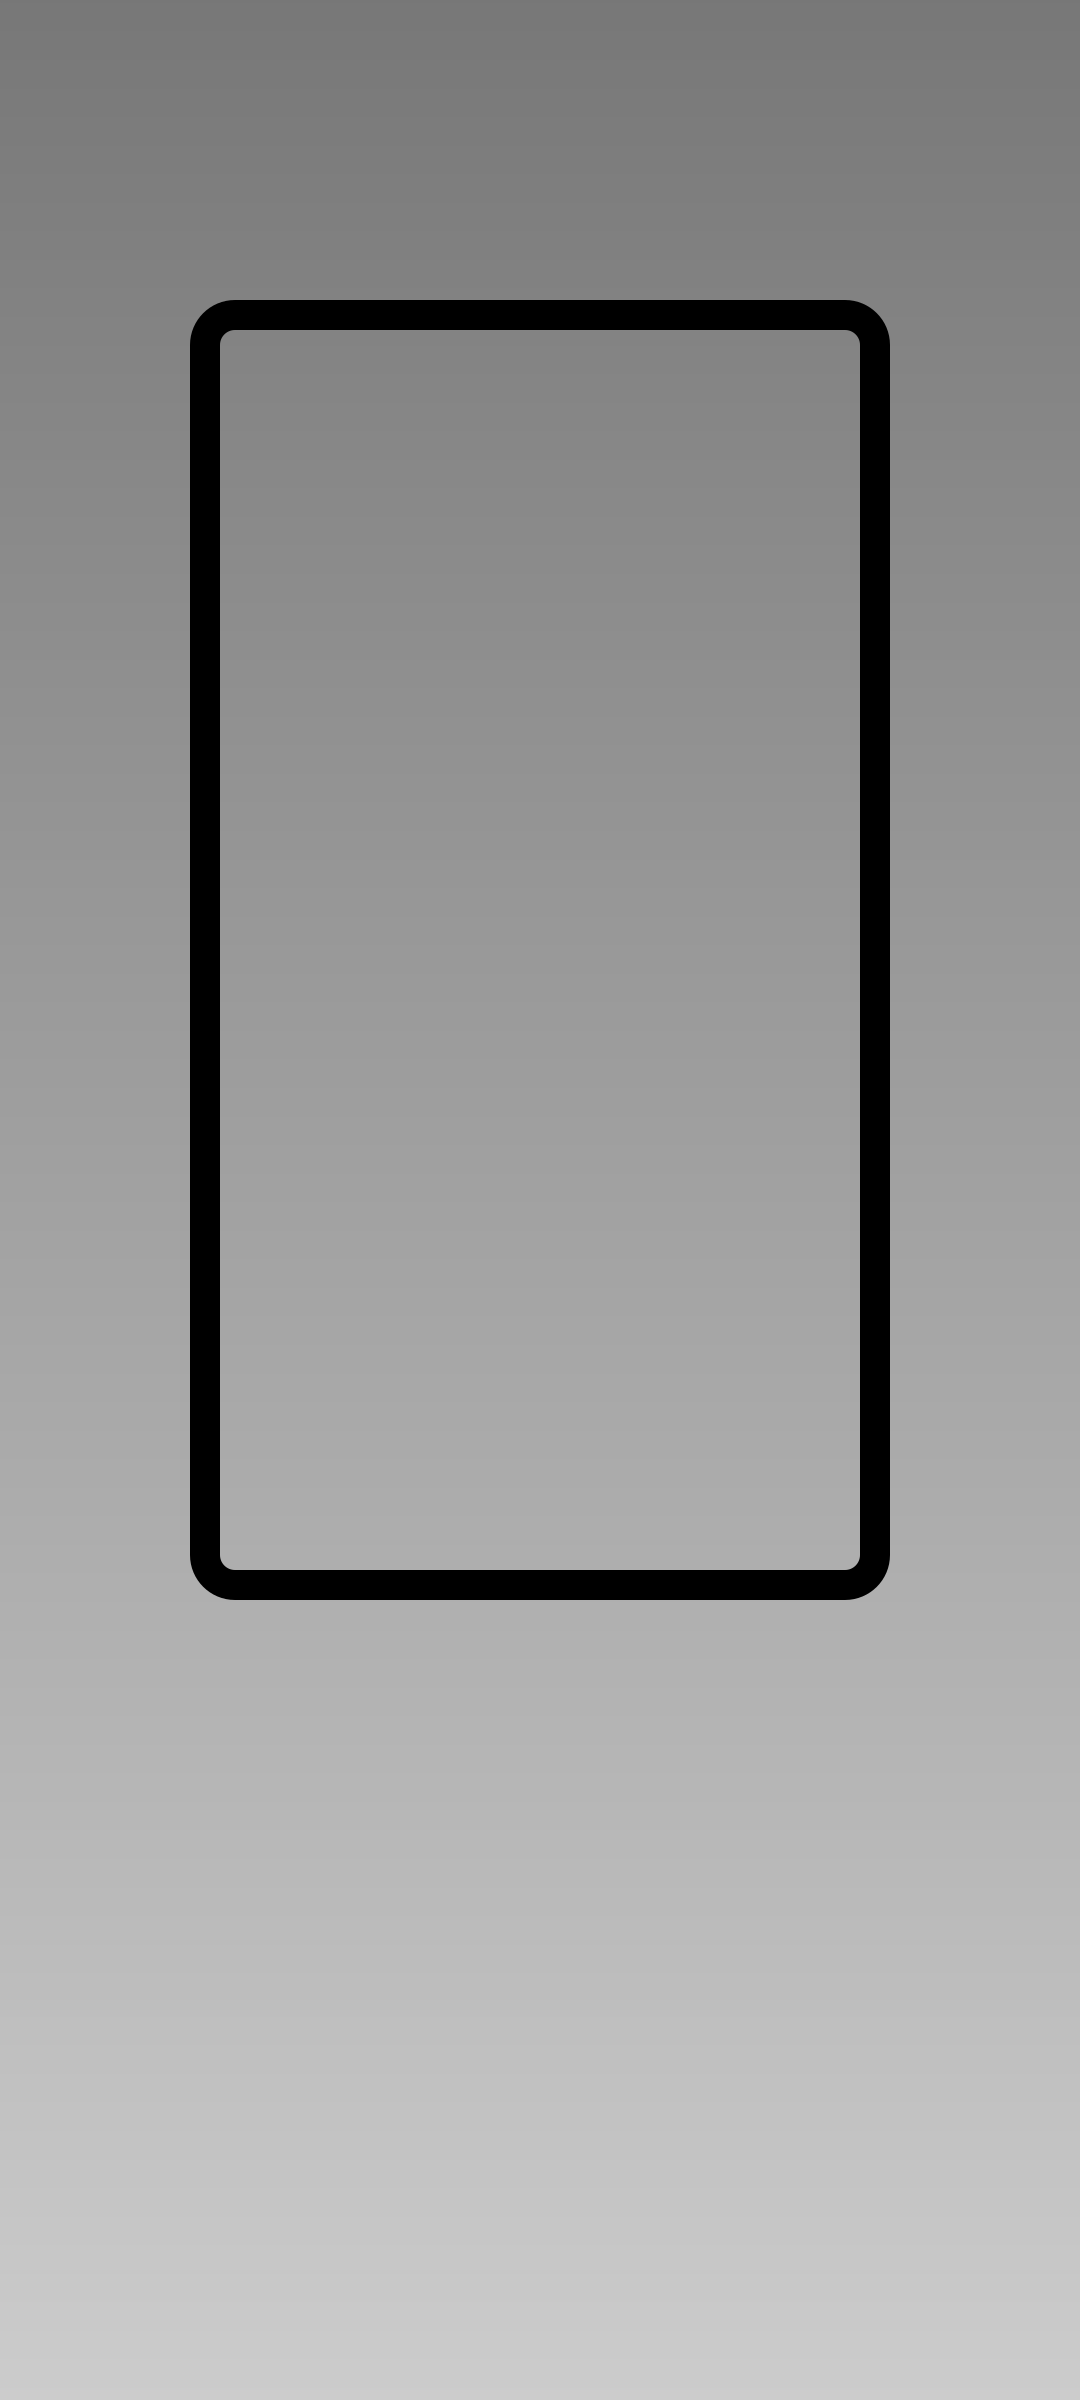
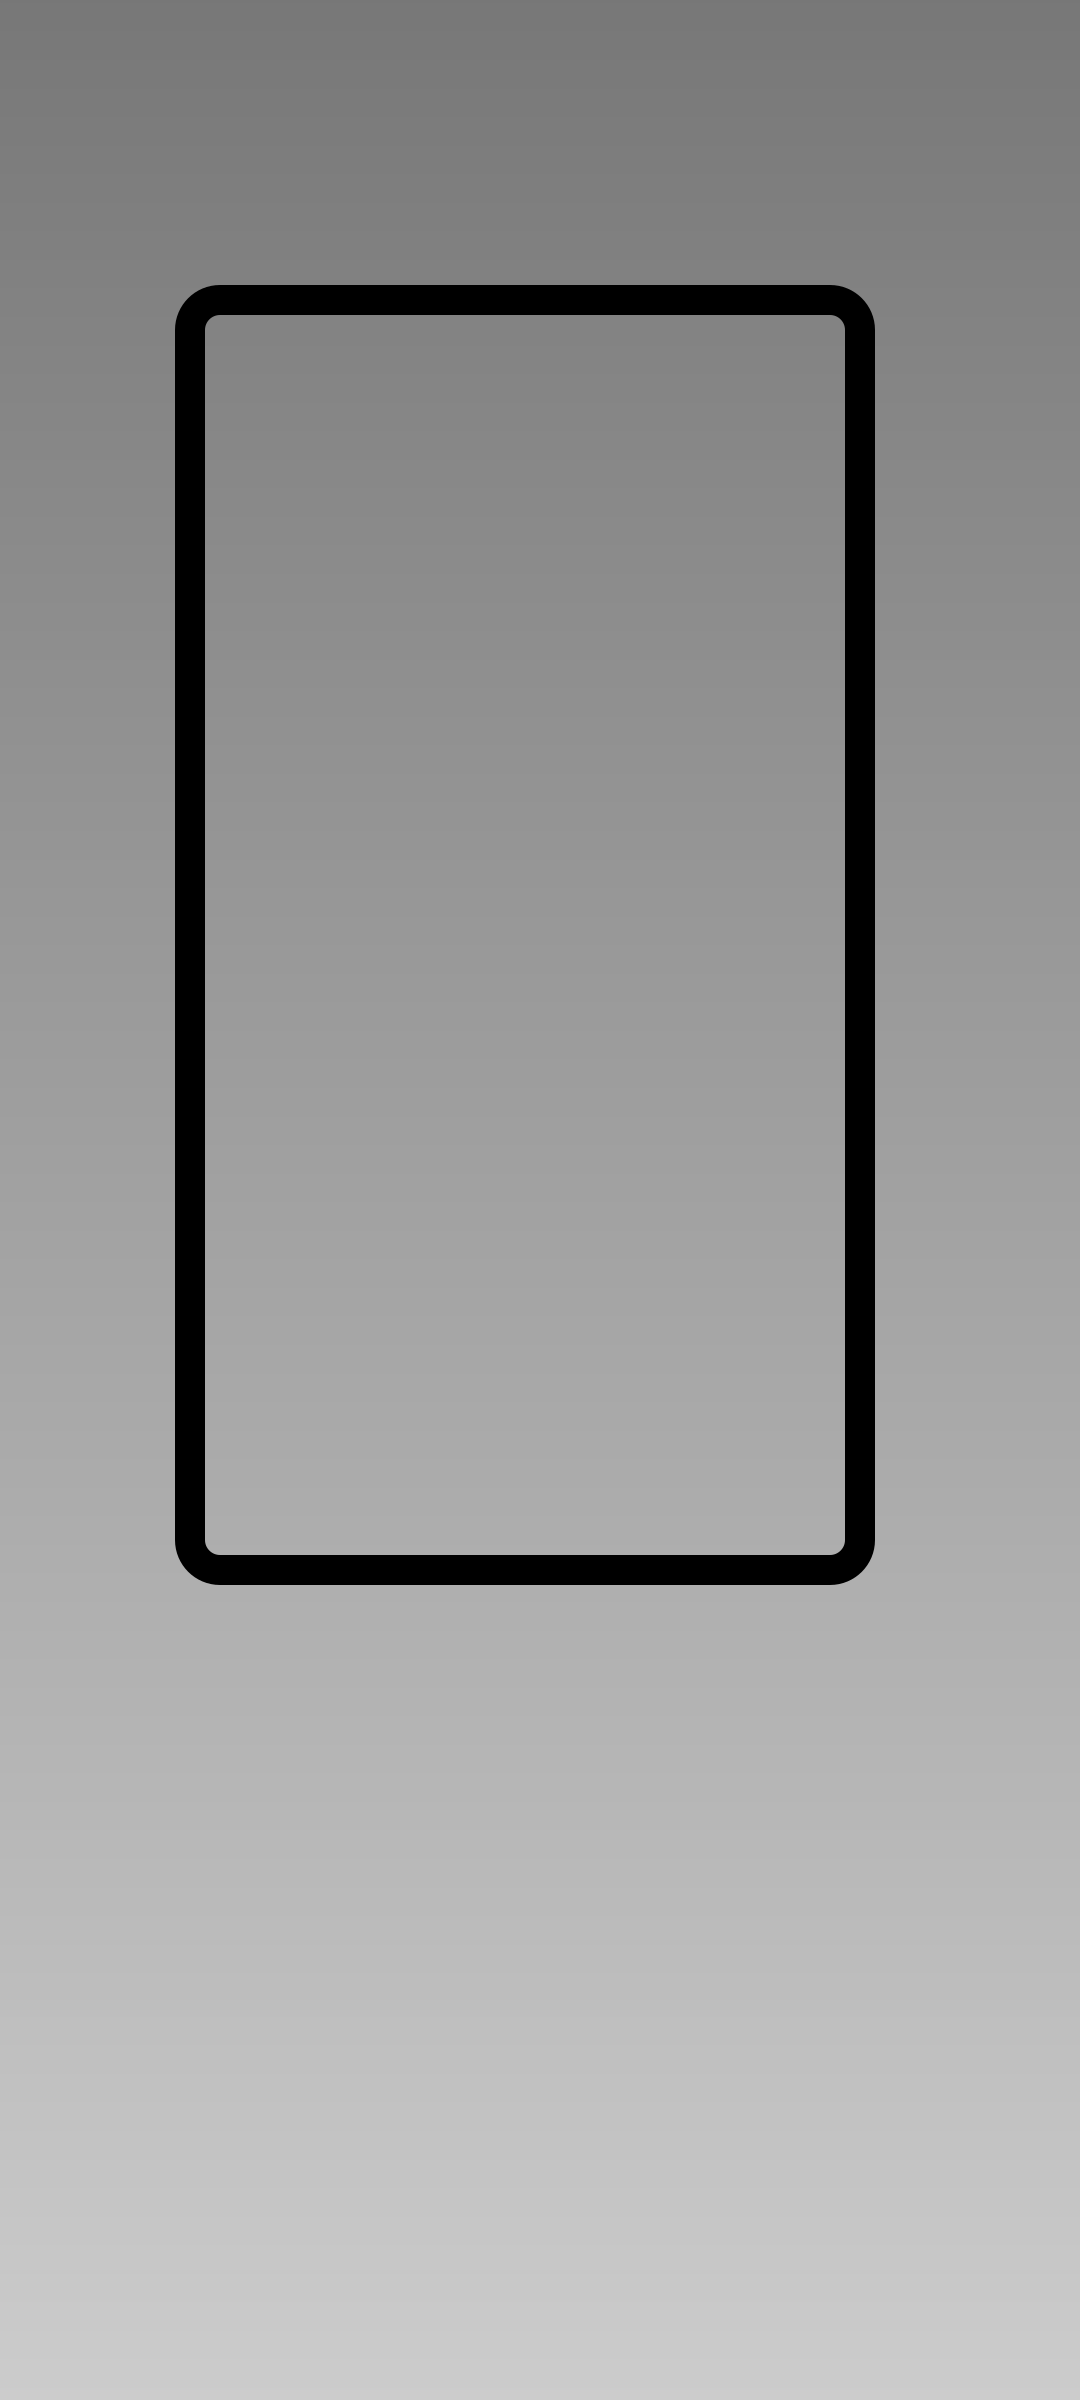
Changed prompt type

Changed region(s): [[0.1528, 0.0938, 0.825, 0.6875]]

diff --git a/app.js b/app.js
@@ -1,71 +1,107 @@
 const sharp = require("sharp");
 const process = require("process");
 const prompt = require("prompt-sync")();
+const prompts = require("prompts");
+(async () => {
+  const query = await prompts([
+    {
+      type: "text",
+      name: "color1",
+      message: "Color 1 (#777 if empty) ",
+    },
+    {
+      type: "text",
+      name: "color2",
+      message: "Color 1 (#CCC if empty) ",
+    },
+    {
+      type: "select",
+      name: "color",
+      message: "Pick a color",
+      choices: [
+        {
+          title: "Red",
+          description: "This option has a description.",
+          value: "#ff0000",
+        },
+        { title: "Green", value: "#00ff00" },
+        { title: "Yellow", value: "#ffff00", disabled: true },
+        { title: "Blue", value: "#0000ff" },
+      ],
+    },
+  ]);
 
-const createPhoneSvg = require("./src/service/phoneSvg.js");
-const createGradientSVG = require("./src/service/gradientSvg.js");
-let color1 = prompt("Color 1? (#777777 if empty) ");
-let color2 = prompt("Color 2? (#CCCCCC if empty) ");
-color1 = color1 ? color1 : "#777";
-color2 = color2 ? color2 : "#CCC";
+  const createPhoneSvg = require("./src/service/phoneSvg.js");
+  const createGradientSVG = require("./src/service/gradientSvg.js");
+  // let color1 = prompt("Color 1? (#777777 if empty) ");
+  // let color2 = prompt("Color 2? (#CCCCCC if empty) ");
 
-// Paths to the image
-const outputPath = "./testOutput2.png"; // Path for the output image
+  const color1 = query.color1 ? query.color1 : "#777";
+  const color2 = query.color2 ? query.color2 : "#CCC";
 
-const canvasWidth = 1080;
-const canvasHeight = 2400;
+  // Paths to the image
+  const outputPath = "./testOutput2.png"; // Path for the output image
 
-const phoneWidth = 700;
-const phoneHeight = 1300;
+  const canvasWidth = 1080;
+  const canvasHeight = 2400;
 
-// Create gradient background buffer
-const gradientSVG = createGradientSVG(
-  canvasWidth,
-  canvasHeight,
-  color1,
-  color2
-);
-// Create phoneSVG buffer
-const phoneSVG = createPhoneSvg(phoneWidth, phoneHeight);
+  const phoneWidth = 700;
+  const phoneHeight = 1300;
 
-sharp(Buffer.from(gradientSVG))
-  .png()
-  .toBuffer()
-  .then((gradientBuffer) => {
-    sharp(Buffer.from(phoneSVG))
-      .png()
-      .toBuffer()
-      .then((phoneBuffer) => {
-        // Create a blank canvas with the desired background color (white in this case)
-        sharp({
-          create: {
-            width: canvasWidth,
-            height: canvasHeight,
-            channels: 3, // No alpha channel
-            background: { r: 255, g: 255, b: 255 }, // White background
-          },
+  // Create gradient background buffer
+  const gradientSVG = createGradientSVG(
+    canvasWidth,
+    canvasHeight,
+    color1,
+    color2
+  );
+  // Create phoneSVG buffer
+  const phoneSVG = createPhoneSvg(
+    canvasWidth,
+    canvasHeight,
+    phoneWidth,
+    phoneHeight
+  );
+
+  sharp(Buffer.from(gradientSVG))
+    .png()
+    .toBuffer()
+    .then((gradientBuffer) => {
+      sharp(Buffer.from(phoneSVG))
+        .png()
+        .toBuffer()
+        .then((phoneBuffer) => {
+          // Create a blank canvas with the desired background color (white in this case)
+          sharp({
+            create: {
+              width: canvasWidth,
+              height: canvasHeight,
+              channels: 3, // No alpha channel
+              background: { r: 255, g: 255, b: 255 }, // White background
+            },
+          })
+            .composite([
+              { input: gradientBuffer, top: 0, left: 0 }, // Apply gradient background
+              {
+                input: phoneBuffer,
+                top: 0,
+                left: 0,
+              },
+            ])
+            .removeAlpha() // Removes alpha channel
+            .toFile(outputPath, (err, info) => {
+              if (err) {
+                console.error("Error merging images:", err);
+              } else {
+                console.log("Images merged successfully:", info);
+              }
+            });
         })
-          .composite([
-            { input: gradientBuffer, top: 0, left: 0 }, // Apply gradient background
-            {
-              input: phoneBuffer,
-              top: 300,
-              left: (canvasWidth - phoneWidth) / 2,
-            }, // Center the phone SVG horizontally
-          ])
-          .removeAlpha()
-          .toFile(outputPath, (err, info) => {
-            if (err) {
-              console.error("Error merging images:", err);
-            } else {
-              console.log("Images merged successfully:", info);
-            }
-          });
-      })
-      .catch((err) => {
-        console.error("Error creating phone buffer:", err);
-      });
-  })
-  .catch((err) => {
-    console.error("Error creating gradient buffer:", err);
-  });
+        .catch((err) => {
+          console.error("Error creating phone buffer:", err);
+        });
+    })
+    .catch((err) => {
+      console.error("Error creating gradient buffer:", err);
+    });
+})();

diff --git a/src/service/phoneSvg.js b/src/service/phoneSvg.js
@@ -1,15 +1,21 @@
-const createPhoneSvg = (width, height) => {
+const createPhoneSvg = (canvasWidth, canvasHeight, width, height) => {
   const strokeWidth = 30;
+
+  // Offset to calculate the center
+  const offset = strokeWidth / 2;
+
+  // Gets the actual size of the phone
   const phoneWidth = width - strokeWidth;
   const phoneHeight = height - strokeWidth;
-  return `
-  <svg width="${width}" height="${height}" xmlns="http://www.w3.org/2000/svg">
-  <g transform="rotate(45deg)">
 
-    <rect x="${strokeWidth / 2}" y="${
-    strokeWidth / 2
-  }" width="${phoneWidth}px" height="${phoneHeight}px" fill="none" stroke="black" stroke-linejoin="round" stroke-width="${strokeWidth}" rx="${strokeWidth}" ry="${strokeWidth}" />
-    </g>
+  // Gets the center of the image
+  const xPos = (canvasWidth - phoneWidth) / 2 - offset;
+
+  return `
+  <svg width="${canvasWidth}" height="${canvasHeight}" xmlns="http://www.w3.org/2000/svg">
+    <rect x="${xPos}" y="300" width="${phoneWidth}px" height="${phoneHeight}px"
+      fill="none" stroke="black" stroke-linejoin="round"
+           stroke-width="${strokeWidth}" rx="${strokeWidth}" ry="${strokeWidth}" />
   </svg>
 `;
 };
